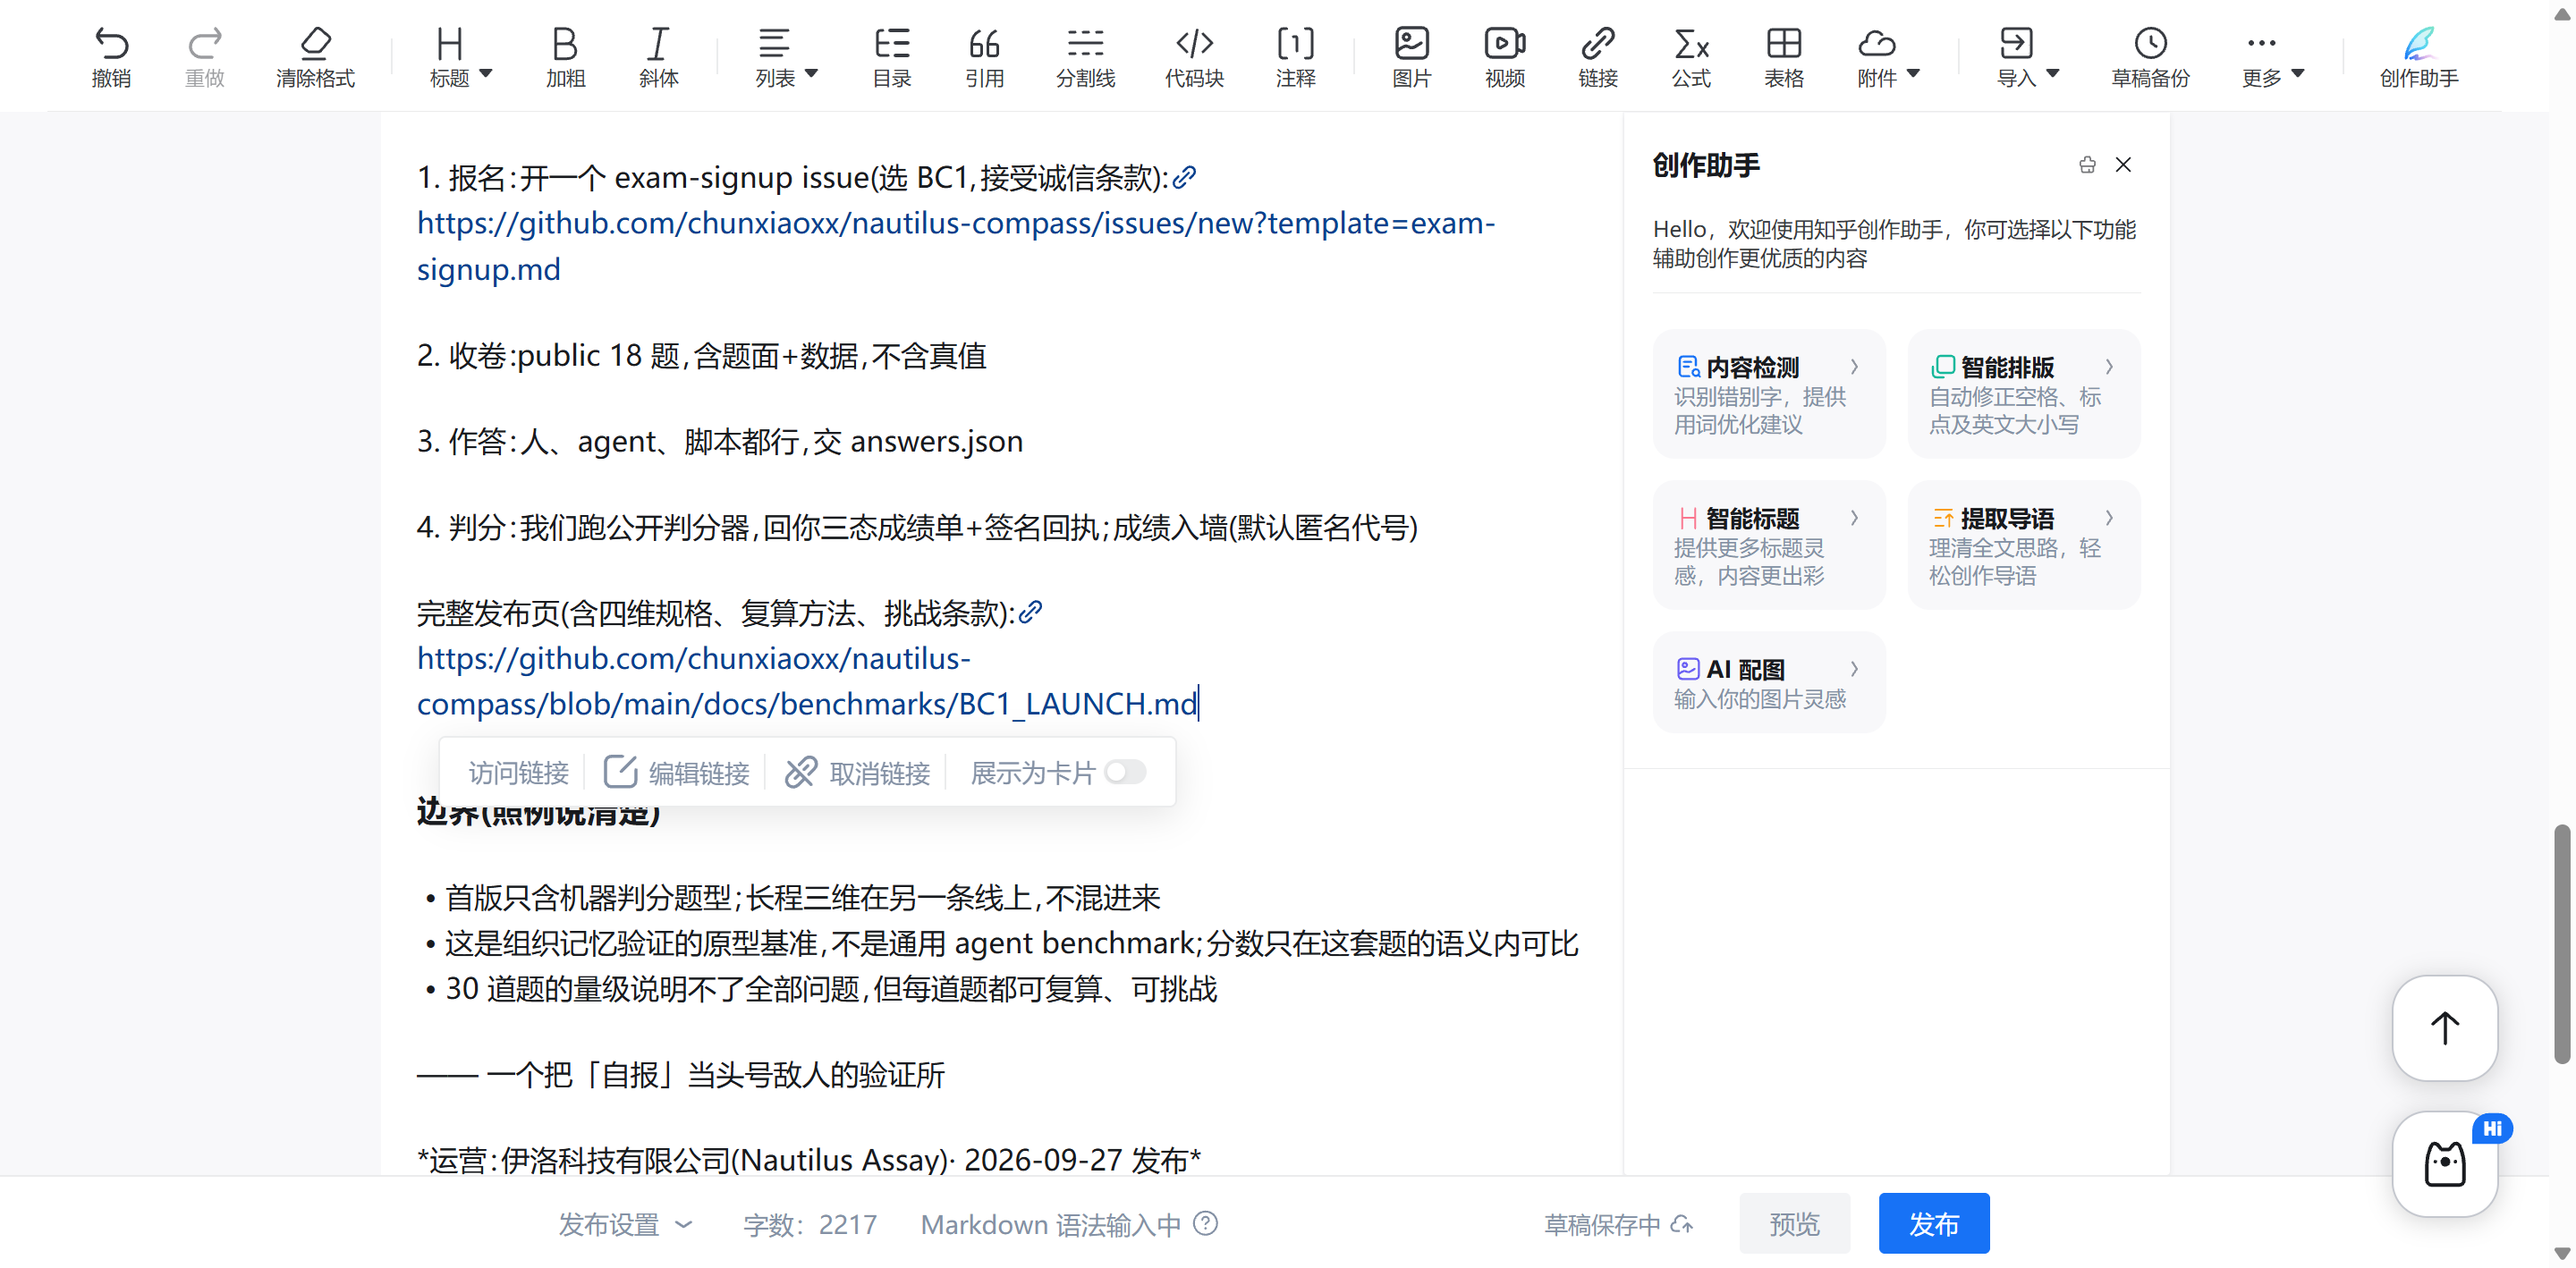
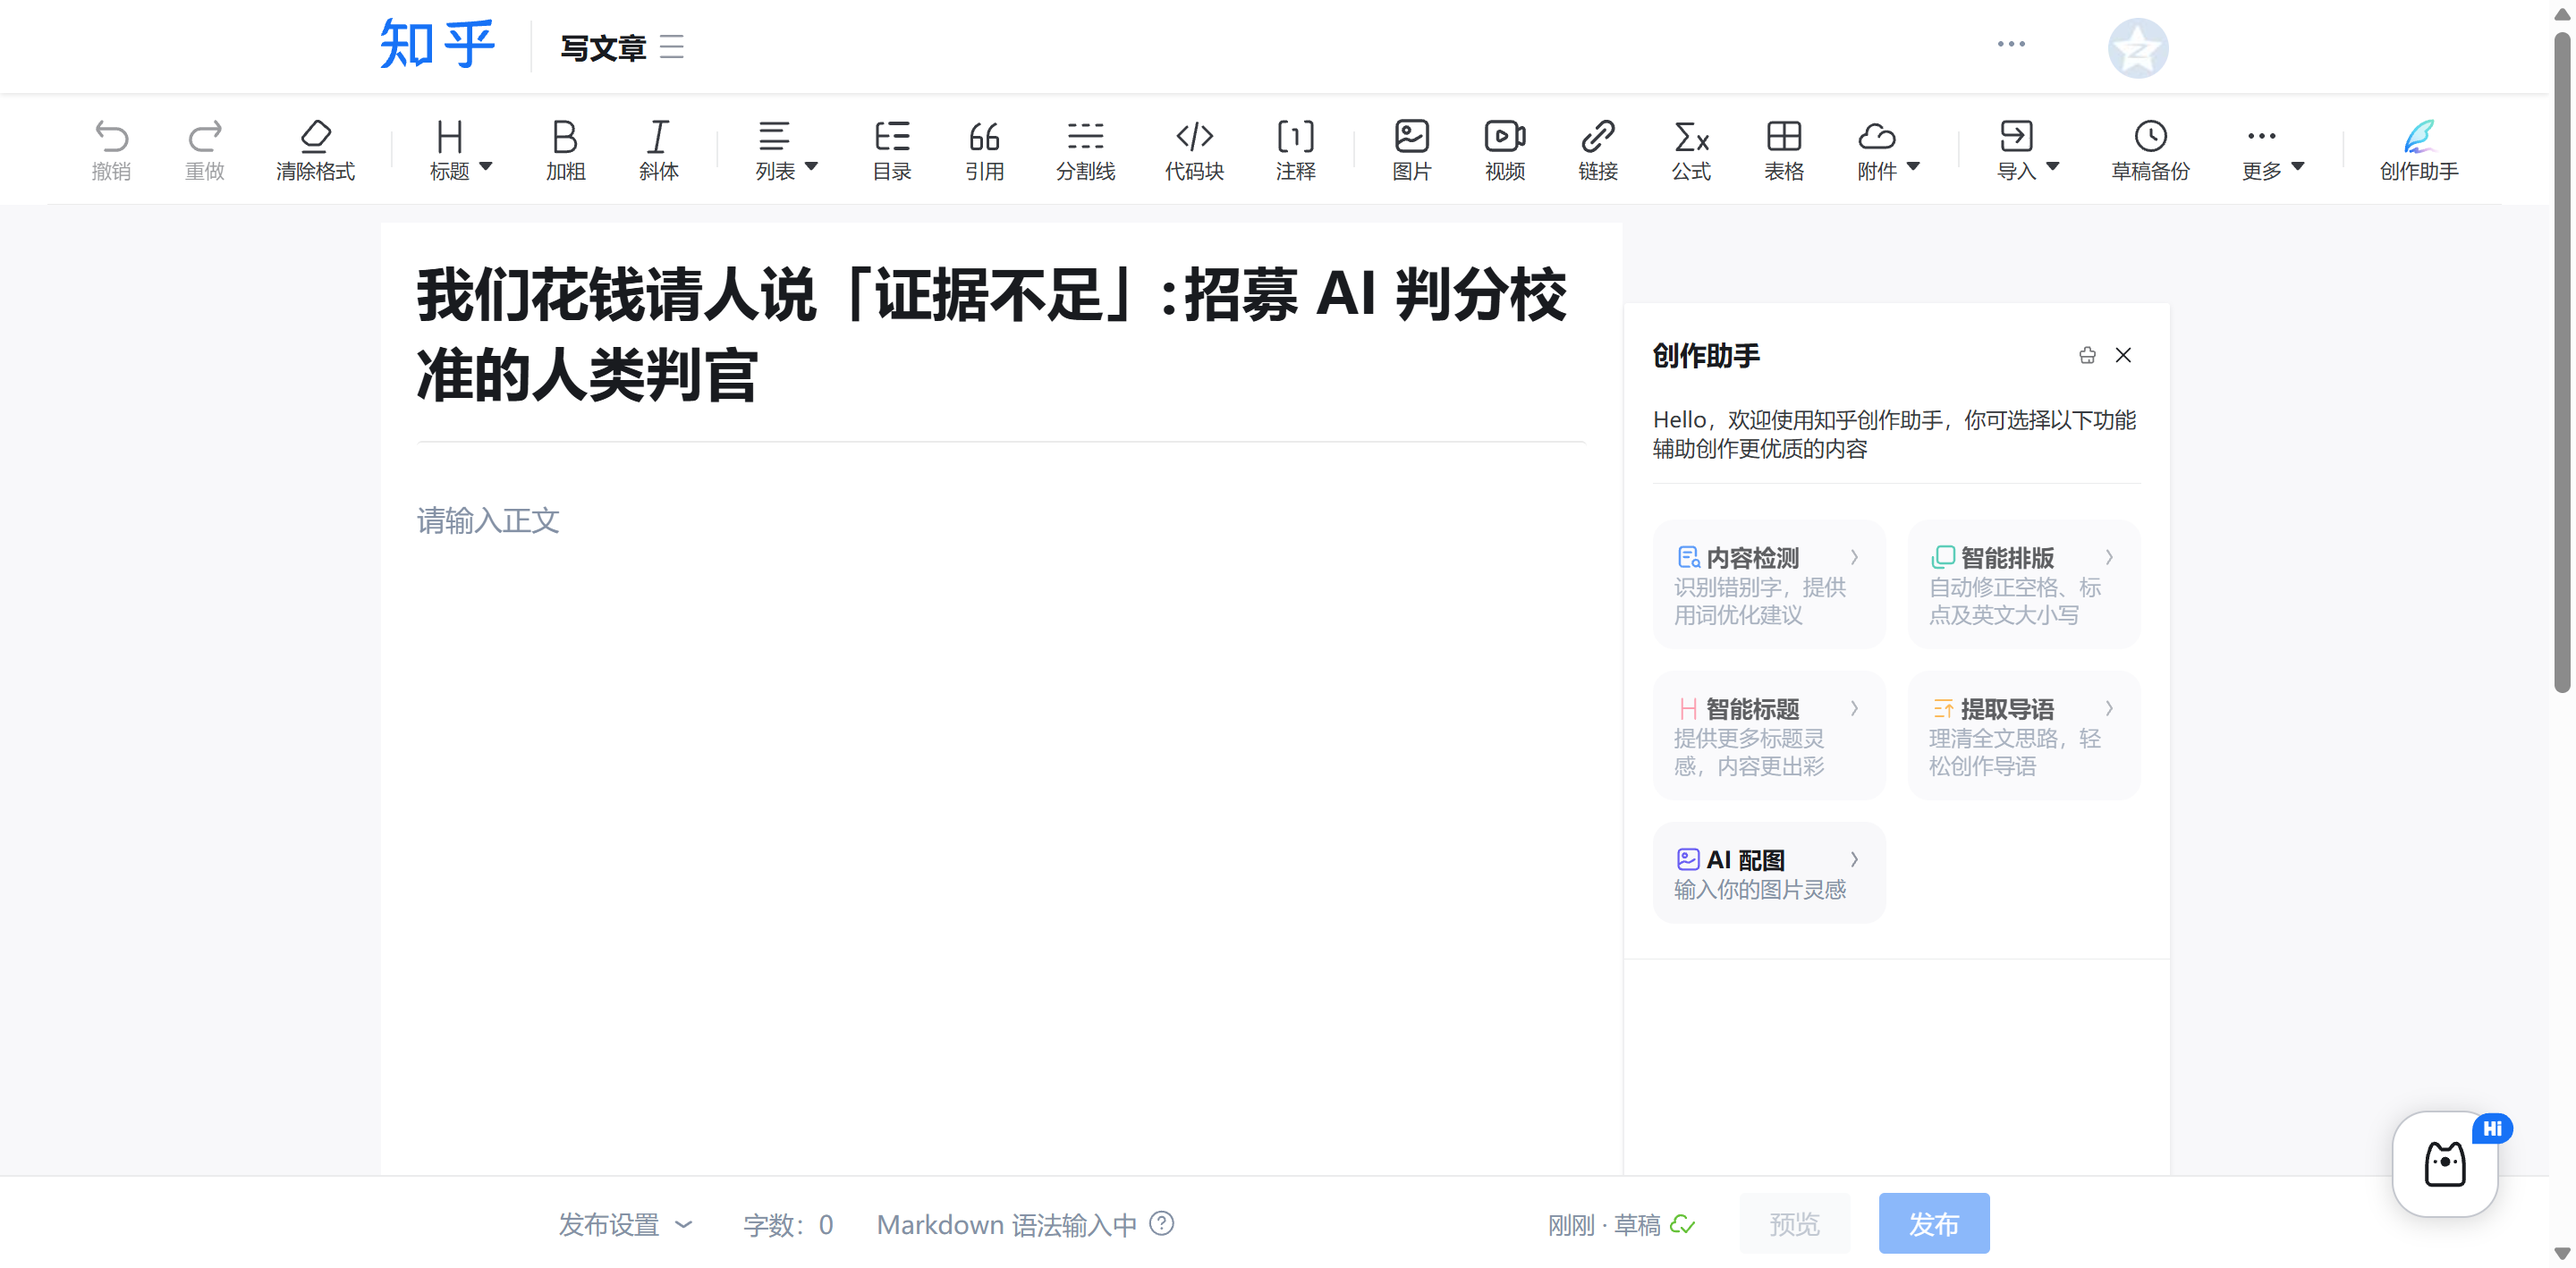
fix(lint): CI 红全量清理——ruff --fix 30 处 F401(未用 import,此前只看日志头误判单处)+手修 4 处(E721 type is 比较/F601 bool-int 冗余键带行为回归测试/F821 TYPE_CHECKING 守卫 import);ruff check . 全绿;jev-trust SDK 零行为变更

diff --git a/sdks/jev-trust/jev_trust/client.py b/sdks/jev-trust/jev_trust/client.py
@@ -99,7 +99,8 @@ def correctness(top: dict, truth) -> int:
     if isinstance(decision, float):
         raise ValueError("score answers have no top-label correctness")
     if decision in ("yes", "no"):
-        yes = {1: "yes", 0: "no", True: "yes", False: "no"}.get(truth)
+        # bool 即 int(True==1 同 hash),0/1 两键已覆盖 True/False 传参
+        yes = {1: "yes", 0: "no"}.get(truth)
         if yes is None:
             raise ValueError(f"bad truth for noul answer: {truth!r}")
         return 1 if decision == yes else 0

diff --git a/sdks/jev-trust/jev_trust/trust.py b/sdks/jev-trust/jev_trust/trust.py
@@ -20,9 +20,13 @@ from __future__ import annotations
 import json
 import time
 from dataclasses import dataclass, field
+from typing import TYPE_CHECKING
+
+if TYPE_CHECKING:  # 注解专用,运行时零依赖(ruff F821:名字须可见)
+    from .receipt import ReceiptResult
 from datetime import datetime, timezone
 from pathlib import Path
-from typing import Callable, Dict, List, Optional
+from typing import Callable, Dict, Optional
 
 from . import calib
 from .calib import (CalibrationState, Prediction, effective_confidence,

diff --git a/runtime/jev_eval_20260921/runner.py b/runtime/jev_eval_20260921/runner.py
@@ -4,7 +4,7 @@ Generates a deterministic decision set (seed=20260921), calls jev-latest one
 question per request, records every raw response, computes Brier/ECE/accuracy.
 No retries on content, no cherry-picking; failures recorded as-is.
 """
-import json, random, time, os, sys, urllib.request, hashlib
+import json, random, time, sys, urllib.request, hashlib
 from pathlib import Path
 
 SEED = 20260921

diff --git a/runtime/assay_bc1_20260927/verify_bc1.py b/runtime/assay_bc1_20260927/verify_bc1.py
@@ -30,7 +30,7 @@ def deep_eq(a, b):
     if isinstance(a, (int, float)) and isinstance(b, (int, float)) \
             and not isinstance(a, bool) and not isinstance(b, bool):
         return abs(a - b) <= TOL
-    if type(a) != type(b):
+    if type(a) is not type(b):
         return False
     if isinstance(a, dict):
         return a.keys() == b.keys() and all(deep_eq(a[k], b[k]) for k in a)

diff --git a/runtime/mini_dcr_20260922/mini_dcr.py b/runtime/mini_dcr_20260922/mini_dcr.py
@@ -1,5 +1,5 @@
 """mini-DCR dry-run: full fulfillment chain in 15 min (20 q, one synthetic business domain)."""
-import json, random, time, urllib.request, hashlib, sys
+import json, random, time, urllib.request, sys
 from pathlib import Path
 OUT = Path(sys.argv[1]) if len(sys.argv) > 1 else Path.home() / "Downloads" / "mini_dcr"
 OUT.mkdir(parents=True, exist_ok=True)

diff --git a/runtime/hotpath_latency_eval.py b/runtime/hotpath_latency_eval.py
@@ -13,7 +13,7 @@ from pathlib import Path
 import torch
 
 sys.path.insert(0, "/root/tools")
-from train_judge_lora import LABELS, PROMPT_TMPL, load, sample_text  # noqa: E402
+from train_judge_lora import LABELS, PROMPT_TMPL, sample_text  # noqa: E402
 
 OUT = Path("/root/runtime/judge_lora/hotpath_eval.json")
 MODEL_PATH = None  # 自动探测 modelscope 路径

diff --git a/runtime/outreach/_turbo_cfg_test.py b/runtime/outreach/_turbo_cfg_test.py
@@ -3,5 +3,4 @@ print("transformers:", transformers.__version__)
 from transformers import AutoConfig
 cfg = AutoConfig.from_pretrained("/root/vdd2/models/Qwen3.8-14B-Turbo")
 print("cfg_ok:", cfg.model_type, "| layers:", getattr(cfg, "num_hidden_layers", "?"))
-from transformers import AutoModelForCausalLM, AutoTokenizer
 print("AutoModelForCausalLM import ok")

diff --git a/scripts/org_deepsync.py b/scripts/org_deepsync.py
@@ -185,7 +185,6 @@ def due_ledger(rows: list[dict], now_iso: str) -> dict:
     +历史误报率=flare_total/(flare_total+cleared_total)——执法器自身
     漂移可被复算(自报复发防线)。
     """
-    import os
     p = Path(__file__).parent.parent / "runtime/deepsync/due_ledger.json"
     book: dict[str, dict] = {}
     if p.exists():

diff --git a/runtime/cloud_daemon_20260930.py b/runtime/cloud_daemon_20260930.py
@@ -1510,8 +1510,6 @@ def handle_ingest(req: dict) -> dict:
     Returns:
       {ok: true, path: "<written .md>", embedded: true, embed_dim: 1024, project: "..."}
     """
-    import hashlib as _hashlib
-    import pickle as _pickle
     from datetime import datetime, timezone
 
     text = _recover_surrogates((req.get("text") or "").strip())

diff --git a/runtime/cloud_daemon_v32_20260930.py b/runtime/cloud_daemon_v32_20260930.py
@@ -1584,8 +1584,6 @@ def handle_ingest(req: dict) -> dict:
     Returns:
       {ok: true, path: "<written .md>", embedded: true, embed_dim: 1024, project: "..."}
     """
-    import hashlib as _hashlib
-    import pickle as _pickle
     from datetime import datetime, timezone
 
     text = _recover_surrogates((req.get("text") or "").strip())

diff --git a/runtime/cloud_daemon_v33_20261001.py b/runtime/cloud_daemon_v33_20261001.py
@@ -1616,8 +1616,6 @@ def handle_ingest(req: dict) -> dict:
     Returns:
       {ok: true, path: "<written .md>", embedded: true, embed_dim: 1024, project: "..."}
     """
-    import hashlib as _hashlib
-    import pickle as _pickle
     from datetime import datetime, timezone
 
     text = _recover_surrogates((req.get("text") or "").strip())

diff --git a/runtime/jev_advcal_20260922/runner.py b/runtime/jev_advcal_20260922/runner.py
@@ -3,7 +3,7 @@
 5 adversarial cells x 40 = 200 questions, seed=20260922, one run, no retries.
 Cell A4 (self-referential) reported separately: confidence distribution only.
 """
-import json, random, time, os, sys, urllib.request, hashlib
+import json, random, time, sys, urllib.request, hashlib
 from pathlib import Path
 
 SEED = 20260922
